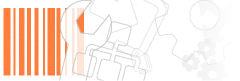
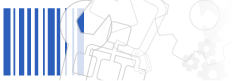
account navbar and header have right colors for now

Changed region(s): [[0.0, 0.0988, 0.35, 0.9383]]

diff --git a/caloomhtml/UI/docs/oip-additions/oip-assets/less/oip-aalto-id.less b/caloomhtml/UI/docs/oip-additions/oip-assets/less/oip-aalto-id.less
@@ -334,8 +334,8 @@ li [class^="icon-"], li [class*=" icon-"]{
 .activity-header  {
   background-image: url("../oip-images/ui/well-activity-header-background.png");
 }
-.latest-header  {
-  background-image: url("../oip-images/ui/well-latest-header-background.png");
+.account-header  {
+  background-image: url("../oip-images/ui/well-account-header-background.png");
 }
 .register-header {}
 

diff --git a/caloomhtml/UI/docs/oip-additions/oip-assets/oip-css/oip-bootstrap.css b/caloomhtml/UI/docs/oip-additions/oip-assets/oip-css/oip-bootstrap.css
@@ -5316,8 +5316,8 @@ li [class*=" icon-"] {
 .activity-header {
   background-image: url("../oip-images/ui/well-activity-header-background.png");
 }
-.latest-header {
-  background-image: url("../oip-images/ui/well-latest-header-background.png");
+.account-header {
+  background-image: url("../oip-images/ui/well-account-header-background.png");
 }
 .small > .hero-unit {
   padding: 0px;
